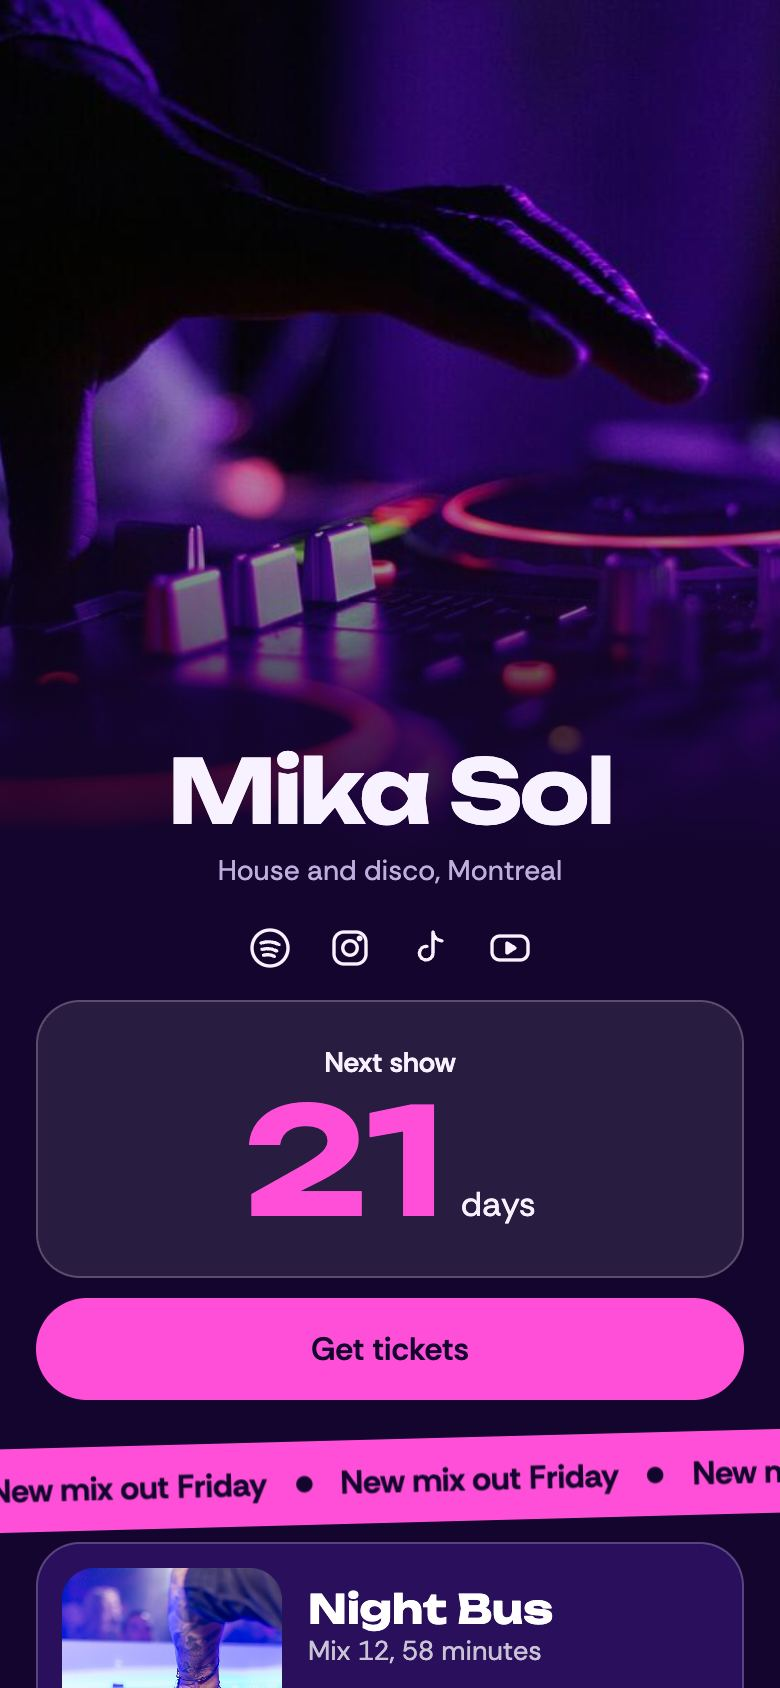
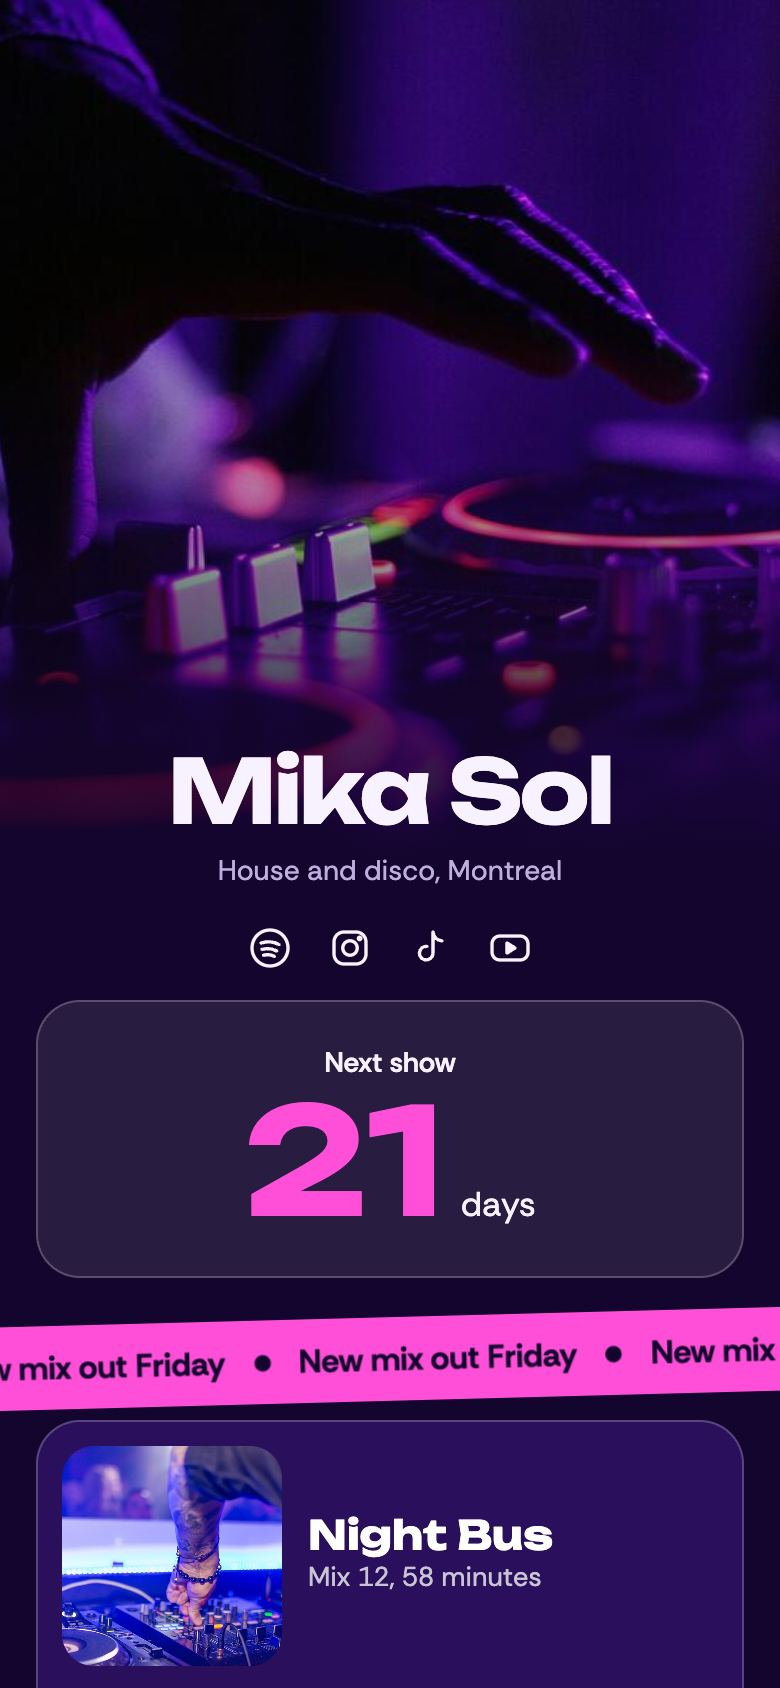
Draw music as a card that opens the service, with no pretend play controls

Changed region(s): [[0.0, 0.7701, 1.0, 1.0]]

diff --git a/packages/page/src/blocks/music.ts b/packages/page/src/blocks/music.ts
@@ -10,10 +10,15 @@ import {
     linkOr,
 } from "../define-block";
 import { link, list, photo, text } from "../fields";
-import { icon } from "../icons";
+import { readLink } from "../links";
 import { item } from "./parts";
 
 // A designed card that opens the link. It doesn't play anything itself.
+const openLabel = (url: string): string => {
+    const reading = readLink(url);
+    return reading.state === "ok" && reading.service ? `Open in ${reading.service}` : "Listen";
+};
+
 export const music = defineBlock({
     schema: blockSchema("music", ["compact", "full"], {
         url: linkValue,
@@ -56,18 +61,20 @@ export const music = defineBlock({
             { id: "c", name: "Ring Me Later", length: "3:15" },
         ],
     }),
-    css: `.b-player{display:block;background:var(--pl,var(--card));color:var(--plfg,var(--cardfg))!important;border-radius:var(--r);padding:12px;margin-top:10px;border:var(--line-b,1px solid var(--line));box-shadow:var(--sh,none)}.b-pt{display:grid;grid-template-columns:110px 1fr;gap:13px;align-items:center}.b-cover{display:block;height:110px;border-radius:calc(var(--r) - 6px);overflow:hidden}.b-pm b{display:block;font:var(--dw,500) 20px/1.15 var(--disp)}.b-pm small{display:block;opacity:.75;font-size:13.5px}.b-ctl{display:flex;align-items:center;gap:13px;margin-top:9px}.b-ctl i{display:grid;place-items:center;width:40px;height:40px;background:var(--plfg,var(--cardfg));color:var(--pl,var(--card));border-radius:50%}.b-ctl .ic{width:20px;height:20px}.b-player ol{margin:11px 0 0;padding:0 0 0 22px;font-size:14.5px}.b-player li{padding:6px 0;border-top:1px solid var(--line)}.b-player li span{display:inline-block;width:calc(100% - 44px)}.b-player li small{opacity:.7}
-.b-player-c .b-pt{grid-template-columns:56px 1fr auto}.b-player-c .b-cover{height:56px}.b-player-c .b-pm b{font-size:16px}.b-mplay{display:grid;place-items:center;width:38px;height:38px;background:var(--plfg,var(--cardfg));color:var(--pl,var(--card));border-radius:50%}.b-mplay .ic{width:18px;height:18px}`,
+    css: `.b-player{display:block;background:var(--pl,var(--card));color:var(--plfg,var(--cardfg))!important;border-radius:var(--r);padding:12px;margin-top:10px;border:var(--line-b,1px solid var(--line));box-shadow:var(--sh,none)}.b-pt{display:grid;grid-template-columns:110px 1fr;gap:13px;align-items:center}.b-cover{display:block;height:110px;border-radius:calc(var(--r) - 6px);overflow:hidden}.b-pm b{display:block;font:var(--dw,500) 20px/1.15 var(--disp)}.b-pm small{display:block;opacity:.75;font-size:13.5px}.b-mopen{display:inline-block;margin-top:9px;padding:8px 14px;font:600 13.5px/1.2 var(--body);background:var(--plfg,var(--cardfg));color:var(--pl,var(--card));border-radius:var(--rb)}.b-player ul{list-style:none;margin:11px 0 0;padding:0;font-size:14.5px}.b-player li{display:flex;justify-content:space-between;gap:10px;padding:6px 0;border-top:1px solid var(--line)}.b-player li small{opacity:.7}
+.b-player-c .b-pt{grid-template-columns:56px 1fr auto}.b-player-c .b-cover{height:56px}.b-player-c .b-pm b{font-size:16px}.b-player-c .b-mopen{margin:0}`,
     render: (block, ctx) => {
         if (!block.title && !ctx.editable) return "";
         const words = `${editableText(ctx, "b", "title", block.title)}${editableText(ctx, "small", "sub", block.sub)}`;
         const cover = `<span class="b-cover">${photoTag(ctx, block.cover)}</span>`;
+        const open =
+            block.url || ctx.editable ? `<span class="b-mopen">${openLabel(block.url)}</span>` : "";
         if (block.variant === "compact") {
             return linkOr(
                 ctx,
                 block.url,
                 "b-player b-player-c",
-                `<span class="b-pt">${cover}<span class="b-pm">${words}</span><i class="b-mplay">${icon("play")}</i></span>`,
+                `<span class="b-pt">${cover}<span class="b-pm">${words}</span>${open}</span>`,
             );
         }
         const songs = (block.tracks ?? []).map(
@@ -78,7 +85,7 @@ export const music = defineBlock({
             ctx,
             block.url,
             "b-player",
-            `<span class="b-pt">${cover}<span class="b-pm">${words}<span class="b-ctl">${icon("prev")}<i>${icon("play")}</i>${icon("next")}</span></span></span>${songs.length ? `<ol>${songs.join("")}</ol>` : ""}`,
+            `<span class="b-pt">${cover}<span class="b-pm">${words}${open}</span></span>${songs.length ? `<ul>${songs.join("")}</ul>` : ""}`,
         );
     },
 });

diff --git a/packages/page/src/page.test.ts b/packages/page/src/page.test.ts
@@ -1,3 +1,6 @@
+import { drawBlock } from "./blocks";
+import type { Block } from "./blocks";
+import { newBlock } from "./operations";
 import { PAGE_VERSION } from "./schema";
 import { describe, expect, it } from "vitest";
 import {
@@ -149,5 +152,30 @@ describe("review fixes", () => {
         const messages = publishWarnings(unread).map((issue) => issue.message);
         expect(messages.some((message) => message.includes("a Music section"))).toBe(true);
         expect(new Set(messages).size).toBe(messages.length);
+    });
+});
+
+describe("music", () => {
+    const ctx = { assetBase: "/photos/", editable: false };
+    const song = (url: string, variant: "compact" | "full") =>
+        drawBlock({ ...newBlock("music", "a"), url, variant } as Block, ctx);
+
+    it.each([
+        ["https://open.spotify.com/album/1", "Open in Spotify"],
+        ["https://music.apple.com/album/1", "Open in Apple Music"],
+        ["https://soundcloud.com/a", "Open in SoundCloud"],
+        ["https://example.com/a", "Listen"],
+    ])("opens %s with its own name", (url, label) => {
+        for (const variant of ["compact", "full"] as const) {
+            expect(song(url, variant)).toContain(label);
+        }
+    });
+
+    it("has no controls that pretend to play", () => {
+        for (const variant of ["compact", "full"] as const) {
+            expect(song("https://open.spotify.com/album/1", variant)).not.toMatch(
+                /b-ctl|b-mplay|<ol>|<svg/,
+            );
+        }
     });
 });

diff --git a/packages/page/src/icons.ts b/packages/page/src/icons.ts
@@ -15,8 +15,6 @@ const PATHS: Record<string, string> = {
     calendar:
         '<rect x="4" y="5.5" width="16" height="15" rx="2.5"/><path d="M4 10h16M8.5 3v4M15.5 3v4"/>',
     bag: '<path d="M5.5 8.5h13l1 12h-15zM9 8.5V7a3 3 0 0 1 6 0v1.5"/>',
-    prev: '<path d="M18 6v12l-9-6zM6 6v12" fill="currentColor"/>',
-    next: '<path d="M6 6v12l9-6zM18 6v12" fill="currentColor"/>',
     download: '<path d="M12 4v11M7.5 11 12 15.5 16.5 11M5 20h14"/>',
     play: '<path d="M8 5.5v13l11-6.5z" fill="currentColor" stroke="none"/>',
     pin: '<path d="M12 21s7-6.2 7-11.5A7 7 0 0 0 5 9.5C5 14.8 12 21 12 21z"/><circle cx="12" cy="9.5" r="2.5"/>',
